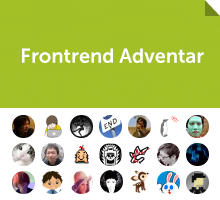
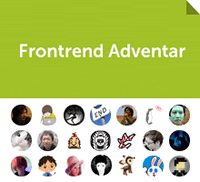
Add articles

diff --git a/_includes/snippets/sidebar.html b/_includes/snippets/sidebar.html
@@ -6,7 +6,16 @@
     <a href="http://sacss.net/special04/"><img src="http://sacss.net/special04/images/sacss_frontrend_200200.png" width="200" height="200" alt="SaCSS Special4 Frontrend in Sapporo"></a>
 
   <h5 class="mtx">Frontrend Adventar 2013</h5>
-    <a href="http://www.adventar.org/calendars/62"><img src="/images/banner/adventar.png" width="220" height="200" alt="Frontrend Advent Calendar 2013"></a>
+    <a href="http://www.adventar.org/calendars/62"><img src="/images/banner/adventar.png" width="200" height="182" alt="Frontrend Advent Calendar 2013"></a>
+
+  <h5 class="mtx">Past Events</h5>
+    <ul class="no-bullet">
+      <li>+ <a href="/events/06/">Frontrend Vol.6</a></li>
+      <li>+ <a href="/events/chrome/">Frontrend x Chrome</a></li>
+      <li>+ <a href="/events/05/">Frontrend Vol.5</a></li>
+      <li>+ <a href="/events/04/">Frontrend Vol.4</a></li>
+      <li>+ <a href="/events/03/">Frontrend Vol.3</a></li>
+    </ul>
 
 
   <h5 class="mtx">Sponsor</h5>

diff --git a/events/06/index.md b/events/06/index.md
@@ -10,7 +10,7 @@ vol: '06'
 tagline: Continuous Integration
 uri: http://frontrend.github.io/events/06/
 atnd: http://frontrend.doorkeeper.jp/events/6907
-end: false
+end: true
 ---
 
 イベント名 |Frontrend Vol.6 powered by CyberAgent, Inc.
@@ -26,9 +26,13 @@ end: false
 タグ     |[#frontrend](https://twitter.com/search?q=%23frontrend)
 備考     |スクール形式（一部机あり）
 
++ [Frontrend/06 - Togetter](http://togetter.com/li/590889)
+
 <h4 id="matsushita">いつやるの？Git入門</h4>
 
 皆さん、Gitは使いこなせていますか？Gitをしっかりと理解するためには、コマンドを覚えるだけでは不十分です。Gitがどのような仕組みで動作し、各コマンドの裏で行われている内容を理解することが非常に重要となります。初めてGitに触れる方はもちろん、より深くGitを理解したい方も、一緒にGitを勉強しませんか？
+
++ <span class="label secondary radius">Deck</span> - [いつやるの？Git入門 v1.1.0](http://www.slideshare.net/matsukaz/git-28304397)
 
 <div class="row">
     <div class="large-3 columns">
@@ -42,6 +46,21 @@ end: false
 
 ---
 
+<h4 id="satake">フロントエンジニアとCIとテスト</h4>
+
+フロントエンドのための継続的インテグレーションとテスト。はたして、フロントエンド開発者にCIがいるのかどうなのか。 昨今のSCM(ソフトウェア構成管理)、Gruntを利用したフロントエンド開発環境にJenkinsを取り入れることで、ビルドやテストなどの作業を ローカルの環境だけでなく、リモートの環境でビルドなどのタスクが実行できるようになります。 Jenkinsの導入から、フロントの開発における利用を簡単にご紹介します。
+
+<div class="row">
+    <div class="large-3 columns">
+        <img src="/images/speakers/satake.jpg">
+    </div>
+    <div class="large-9 columns"><h5>佐竹　裕行(さたけ　ひろゆき) <a href="https://twitter.com/st44100">@st44100</a></h5>
+    <p>株式会社サイバーエージェント ディベロッパー<br>
+    1982年滋賀生まれ。IAMAS卒。名古屋でフロントからバックエンド,iOSまでなんでもやるWebエンジニアとして働いたのち,渋谷でJavaScript中心の開発者に。基本前側が好きなWebのエンジニア。知る人ぞ知るあの鍵の人。</p>
+    </div>
+</div>
+
+---
 <h4 id="gunta">Android端末の動作検証の課題を解決: STF</h4>
 
 サイバーエージェントでは現在数多くのAndroid対応のウェブサービスやアプリを提供していますが、問題となるのはそれぞれのAndroid端末を個別に検証しなければならないこと。この課題を解決するべく立ち上がった、STFという開発中のプロジェクトの概念を紹介し、それぞれの機能を細かく説明していきます。
@@ -70,21 +89,5 @@ end: false
     <div class="large-9 columns"><h5>Kinnunen Simo (キンヌネン・シモ) <a href="https://twitter.com/sorccu">@sorccu</a></h5>
     <p>株式会社サイバーエージェント エンジニア<br>
     2012年サイバーエージェントに入ったフィンランド人です。もう10年以上JavaScriptで開発しています。数年前ヨーロッパ・アメリカで人気だった「cufon」を作りました。サイバーエージェントではほとんどコミュニティアプリに関わって、フロントのJSも、バックエンドとインフラもしています。</p>
-    </div>
-</div>
-
-
----
-<h4 id="satake">フロントエンジニアとCIとテスト</h4>
-
-フロントエンドのための継続的インテグレーションとテスト。はたして、フロントエンド開発者にCIがいるのかどうなのか。 昨今のSCM(ソフトウェア構成管理)、Gruntを利用したフロントエンド開発環境にJenkinsを取り入れることで、ビルドやテストなどの作業を ローカルの環境だけでなく、リモートの環境でビルドなどのタスクが実行できるようになります。 Jenkinsの導入から、フロントの開発における利用を簡単にご紹介します。
-
-<div class="row">
-    <div class="large-3 columns">
-        <img src="/images/speakers/satake.jpg">
-    </div>
-    <div class="large-9 columns"><h5>佐竹　裕行(さたけ　ひろゆき) <a href="https://twitter.com/st44100">@st44100</a></h5>
-    <p>株式会社サイバーエージェント ディベロッパー<br>
-    1982年滋賀生まれ。IAMAS卒。名古屋でフロントからバックエンド,iOSまでなんでもやるWebエンジニアとして働いたのち,渋谷でJavaScript中心の開発者に。基本前側が好きなWebのエンジニア。知る人ぞ知るあの鍵の人。</p>
     </div>
 </div>

diff --git a/_posts/2013-11-18-frontrend-06-end.md b/_posts/2013-11-18-frontrend-06-end.md
@@ -1,0 +1,39 @@
+---
+layout: post
+title: Frontrend Vol.6 が終了しました
+description: 2013年11月16日（土）にFrontrend Vol.6 powered by CyberAgent, Inc.を開催しました。
+published: 2013-11-18
+category: news
+tags: blog, frontrend
+excerpt: 2013年11月16日（土）にFrontrend Vol.6 powered by CyberAgent, Inc.を開催しました。
+---
+
+## Frontrend Vol.6 が終了しました
+
+
+![](/images/2013/1118_1.jpg)
+
+2013年11月16日、渋谷マークシティでFrontrend Vol.6 powered by CyberAgent, Inc.を開催し、100名を越える方にご参加いただきました。
+
+
+ツイートは下記にまとめました。
+
++ [Frontrend/06 - Togetter](http://togetter.com/li/590889)
+
+参加者のブログなど
+
++ [GitとJenkinsとSTF(仮) at Frontrend Vol.6](http://nakajmg.github.io/blog/2013-11-17/frontrend6.html)
++ [Frontrend Vol.6 | 覚え書き | @kazuhito](http://kidachi.kazuhi.to/blog/archives/037979.html)
+
+![](/images/2013/1118_2.jpg)
+
+当日のスライド・動画は下記ページに順次掲載予定です。
+
++ [Frontrend Vol.6 powered by CyberAgent, Inc.](/events/06/)
+
+次回のFrontrendは2013年12月7日、札幌にての開催です。  まだ残席余裕がありますので是非とも参加してみてください。
+
+[![](http://sacss.net/special04/images/sacss_frontrend_200200.png)](http://sacss.net/special04/)
+
+
+
